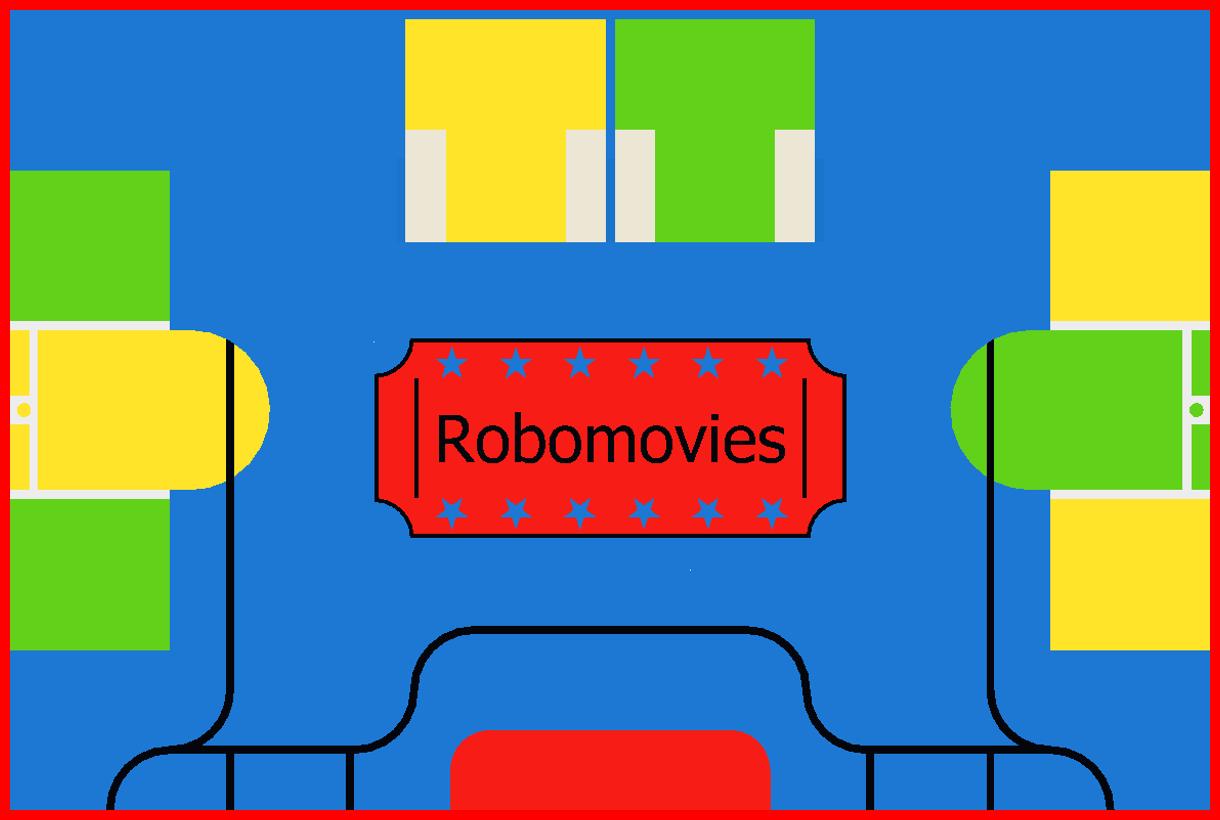
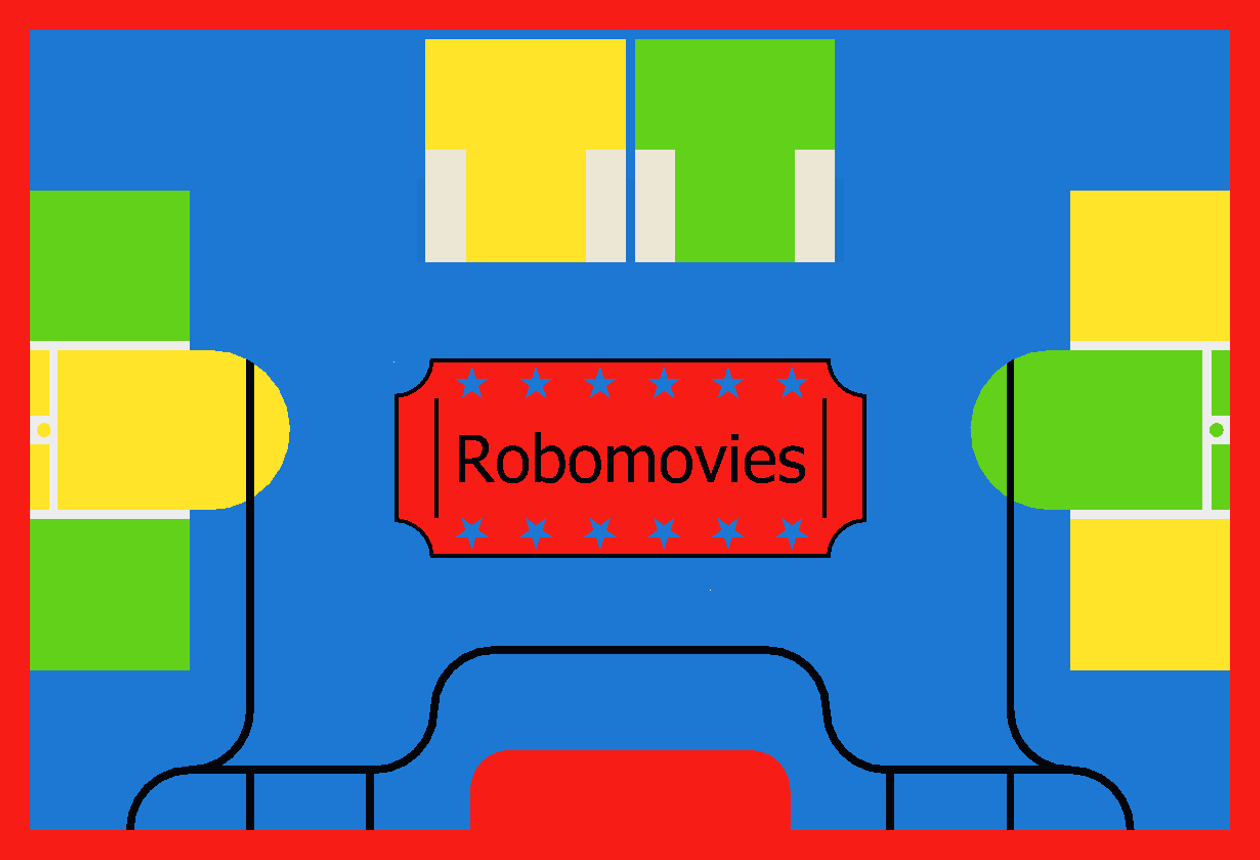
[linux_image_processing] Try to add some randomness (WIP)

diff --git a/primary_robot/linux_image_processing/processes/ProcAbsPos.cpp b/primary_robot/linux_image_processing/processes/ProcAbsPos.cpp
@@ -29,13 +29,13 @@ using namespace std;
 using namespace cv;
 
 //#define SHOW_TESTPOINTS
-//#define SHOW_SIMULATED
-//#define HSV_TO_HGRAY
+#define SHOW_SIMULATED
+#define HSV_TO_HGRAY
 //#define HSV_TO_VGRAY
 //#define SHOW_PLAYGROUND
-//#define SHOW_HSV
+#define SHOW_HSV
 
-//#define WRITE_IMAGES
+#define WRITE_IMAGES
 
 /**
  * H
@@ -88,21 +88,21 @@ vector<TestPoint> ProcAbsPos::getPosDependentTP(const Pos& robPos) {
 Point2i getInPGIm(Mat p) {
     float factor = 4; // (px/cm)
 
-    return {int(round(p.at<float>(0) * factor)) + 9, int(round((200 - p.at<float>(1)) * factor)) + 9};
+    return {int(round(p.at<float>(0) * factor)) + 29, int(round((200 - p.at<float>(1)) * factor)) + 29};
 }
 
 template<typename T>
 Point2i getInPGIm(Point_<T> p) {
     float factor = 4; // (px/cm)
 
-    return {int(round(p.x * factor)) + 9, int(round((200 - p.y) * factor)) + 9};
+    return {int(round(p.x * factor)) + 29, int(round((200 - p.y) * factor)) + 29};
 }
 
 template<typename T>
 Point2i getInPGIm(Point3_<T> p) {
     float factor = 4; // (px/cm)
 
-    return {int(round(p.x * factor)) + 9, int(round((200 - p.y) * factor)) + 9};
+    return {int(round(p.x * factor)) + 29, int(round((200 - p.y) * factor)) + 29};
 }
 
 Mat ProcAbsPos::getSimulatedAt(ProjAcq& pAcq, const Pos& robPos) const {
@@ -116,7 +116,13 @@ Mat ProcAbsPos::getSimulatedAt(ProjAcq& pAcq, const Transform2D<float>& tr_rob2p
     Mat im3 = pAcq.getAcq()->getMat(BGR).clone();
     for (Mat_<Vec3b>::iterator it = im3.begin<Vec3b>(); it != im3.end<Vec3b>();
             it++) {
-        (*it) = pg.at<Vec3b>(getInPGIm(tr_rob2pg.transformLinPos(pAcq.cam2plane(it.pos()))));
+        Point2i pos_pg = getInPGIm(tr_rob2pg.transformLinPos(pAcq.cam2plane(it.pos())));
+        if (pos_pg.y < 0 || pos_pg.y >= pg.size[0] || pos_pg.x < 0 || pos_pg.x >= pg.size[1]) {
+            (*it) = Vec3b(0, 0, 0);
+        }
+        else {
+            (*it) = pg.at<Vec3b>(pos_pg);
+        }
     }
 
     return im3;
@@ -287,8 +293,14 @@ float ProcAbsPos::getEnergy(ProjAcq& pAcq, const Pos& robPos) {
     return E;
 }
 
-float ProcAbsPos::f(ProcAbsPos& p, ProjAcq& pAcq, const Vector3D<float>& pt) {
-    return p.getEnergy(pAcq, Pos(pt.x(), pt.y(), pt.z()));
+float ProcAbsPos::f(ProcAbsPos& p, ProjAcq& pAcq, Vector3D<float> const& pt, int iter) {
+    float enr = p.getEnergy(pAcq, Pos(pt.x(), pt.y(), pt.z()));
+    float rnd = iter >= 0 ? enr * 1.f * p.getRand() / log(3.f + iter) : 0.f;
+    float ret = enr + rnd;
+
+    cout << "f(pt = " << pt << ", iter = " << iter << ") = " << enr << " + " << rnd / enr * 100.f << " %" << endl;
+
+    return ret;
 }
 
 void ProcAbsPos::process(const std::vector<Acq*>& acqList, const Pos& pos, const PosU& posU) {
@@ -304,7 +316,8 @@ void ProcAbsPos::process(const std::vector<Acq*>& acqList, const Pos& pos, const
     Mat im_hsv = acq->getMat(HSV);
 
 #ifdef HSV_TO_HGRAY
-    for(Mat_<Vec3b>::iterator it = im_hsv.begin<Vec3b>(); it != im_hsv.end<Vec3b>(); it++) {
+    for (Mat_<Vec3b>::iterator it = im_hsv.begin<Vec3b>();
+            it != im_hsv.end<Vec3b>(); it++) {
         (*it)[1] = (*it)[0];
         (*it)[2] = (*it)[0];
     }
@@ -332,85 +345,103 @@ void ProcAbsPos::process(const std::vector<Acq*>& acqList, const Pos& pos, const
 
     float du = 10;
     float dv = 10;
-    float cm2rad = 0.01;
+    float dr = 5;
+    float cm2rad = 1.f / 50.f;
 
-    float ct = cos(pos.theta());
-    float st = sin(pos.theta());
+    for (int i = 0; i < 3; i++) {
+        float t = pos.theta() + dr * cm2rad * getRand();
+        float ct = cos(t);
+        float st = sin(t);
 
-    array<Vector3D<float>, 4> simplex {
-            Vector3D<float>(
-                    pos.getLinPos().at<float>(0) - ct*du,
-                    pos.getLinPos().at<float>(1) - st*du,
-                    pos.theta() - du * cm2rad),
-            Vector3D<float>(
-                    pos.getLinPos().at<float>(0) - st*dv,
-                    pos.getLinPos().at<float>(1) + ct*dv,
-                    pos.theta()),
-            Vector3D<float>(
-                    pos.getLinPos().at<float>(0) + ct*du,
-                    pos.getLinPos().at<float>(1) + st*du,
-                    pos.theta() + du * cm2rad),
-            Vector3D<float>(
-                    pos.getLinPos().at<float>(0) + st*dv,
-                    pos.getLinPos().at<float>(1) - ct*dv,
-                    pos.theta()),
-    };
+        array<Vector3D<float>, 4> simplex {
+                Vector3D<float>(
+                        pos.getLinPos().at<float>(0) - ct * du +
+                                dr * getRand(),
+                        pos.getLinPos().at<float>(1) - st * du +
+                                dr * getRand(),
+                        pos.theta() - du * cm2rad +
+                                dr * cm2rad * getRand()),
+                Vector3D<float>(
+                        pos.getLinPos().at<float>(0) - st * dv +
+                                dr * getRand(),
+                        pos.getLinPos().at<float>(1) + ct * dv +
+                                dr * getRand(),
+                        pos.theta() +
+                                dr * cm2rad * getRand()),
+                Vector3D<float>(
+                        pos.getLinPos().at<float>(0) + ct * du +
+                                dr * getRand(),
+                        pos.getLinPos().at<float>(1) + st * du +
+                                dr * getRand(),
+                        pos.theta() + du * cm2rad +
+                                dr * cm2rad * getRand()),
+                Vector3D<float>(
+                        pos.getLinPos().at<float>(0) + st * dv +
+                                dr * getRand(),
+                        pos.getLinPos().at<float>(1) - ct * dv +
+                                dr * getRand(),
+                        pos.theta() - du * cm2rad +
+                                dr * cm2rad * getRand()),
+        };
 
-    cout << "input simplex:" << endl;
-    for(Vector3D<float> const& v : simplex) {
-        cout << v.x() << " " << v.y() << " " << v.z() << endl;
-    }
+        cout << "input simplex:" << endl;
+        for (Vector3D<float> const& v : simplex) {
+            cout << v.x() << " " << v.y() << " " << v.z() << endl;
+        }
 
-    function<float(Vector3D<float> const&)> bf = std::bind(f, ref(*this), ref(pAcq), placeholders::_1);
+        function<float(Vector3D<float> const&, int)> bf = std::bind(f, ref(*this), ref(pAcq), placeholders::_1, placeholders::_2);
 
-    perf.endOfStep("ProcAbsPos::setting up optim");
+        perf.endOfStep("ProcAbsPos::setting up optim");
 
-    Vector3D<float> res = neldermead<float, Vector3D<float>, 3>(simplex, bf, 0, 30);
-    Pos endPos(res.x(), res.y(), res.z());
+        Vector3D<float> res = neldermead<float, Vector3D<float>, 3>(simplex, bf, 0, 20);
+        Pos endPos(res.x(), res.y(), res.z());
 
-    cout << "output simplex:" << endl;
-    for(Vector3D<float> const& v : simplex) {
-        cout << v.x() << " " << v.y() << " " << v.z() << endl;
-    }
+        cout << "output simplex:" << endl;
+        for (Vector3D<float> const& v : simplex) {
+            cout << v.x() << " " << v.y() << " " << v.z() << endl;
+        }
 
-    cout << "  endpos: " << endPos.x() << ", " << endPos.y() << ", " << endPos.theta() * 180. / M_PI << ", E=" << getEnergy(pAcq, endPos) << endl;
+        cout << "  endpos: " << endPos.x() << ", " << endPos.y() << ", " << endPos.theta() * 180. / M_PI << ", E=" << getEnergy(pAcq, endPos) << endl;
 
-    perf.endOfStep("optim (neldermead)");
+        perf.endOfStep("optim (neldermead #" + to_string(i) + ")");
 
 #ifdef SHOW_SIMULATED
-    // simulate acquisition
-    Mat im3 = getSimulatedAt(pAcq, endPos);
+        // simulate acquisition
+        Mat im3 = getSimulatedAt(pAcq, endPos);
+        string bn("im3-" + to_string(i));
 #ifdef WRITE_IMAGES
-    imwrite("im3.png", im3);
+        imwrite(bn + ".png", im3);
 #endif
-    imshow("im3", im3);
+        imshow(bn, im3);
 
 #ifdef SHOW_HSV
-    // show simulated acquisition in hsv
-    Mat im3_hsv = im3.clone();
-    cvtColor(im3, im3_hsv, COLOR_BGR2HSV);
+        // show simulated acquisition in hsv
+        Mat im3_hsv = im3.clone();
+        cvtColor(im3, im3_hsv, COLOR_BGR2HSV);
 #ifdef HSV_TO_HGRAY
-    for(Mat_<Vec3b>::iterator it = im3_hsv.begin<Vec3b>(); it != im3_hsv.end<Vec3b>(); it++) {
-        (*it)[1] = (*it)[0];
-        (*it)[2] = (*it)[0];
-    }
+        for (Mat_<Vec3b>::iterator it = im3_hsv.begin<Vec3b>();
+                it != im3_hsv.end<Vec3b>(); it++) {
+            (*it)[1] = (*it)[0];
+            (*it)[2] = (*it)[0];
+        }
 #elif defined(HSV_TO_VGRAY)
-    for(Mat_<Vec3b>::iterator it = im3_hsv.begin<Vec3b>(); it != im3_hsv.end<Vec3b>(); it++) {
-        (*it)[0] = (*it)[2];
-        (*it)[1] = (*it)[2];
-    }
+        for(Mat_<Vec3b>::iterator it = im3_hsv.begin<Vec3b>(); it != im3_hsv.end<Vec3b>(); it++) {
+            (*it)[0] = (*it)[2];
+            (*it)[1] = (*it)[2];
+        }
 #endif
 #ifdef WRITE_IMAGES
-    imwrite("im3_hsv.png", im3_hsv);
+        imwrite(bn + "_hsv.png", im3_hsv);
 #endif
-    imshow("im3_hsv", im3_hsv);
+        imshow(bn + "_hsv", im3_hsv);
 
-    Mat diff_hsv = im_hsv - im3_hsv;
+        Mat diff_hsv = im_hsv - im3_hsv;
 #ifdef WRITE_IMAGES
-    imwrite("diff_hsv.png", diff_hsv);
+        imwrite(bn + "_diff_hsv.png", diff_hsv);
 #endif
-    imshow("diff_hsv", diff_hsv);
+        imshow(bn + "_diff_hsv", diff_hsv);
 #endif
 #endif
+    }
 
 }

diff --git a/primary_robot/linux_image_processing/tools/neldermead.h b/primary_robot/linux_image_processing/tools/neldermead.h
@@ -14,7 +14,7 @@
 //#define NM_DEBUG
 
 template<typename T, typename V, int sz>
-V neldermead(std::array<V, sz + 1>& x, std::function<T(V const&)> f, T z_end, int nb_max) {
+V neldermead(std::array<V, sz + 1>& x, std::function<T(V const&, int)> f, T z_end, int nb_max) {
     V xb, xr, xe, xc;
     int i_max, i_MAX, i_MIN;
     int indexes[sz + 1];
@@ -22,7 +22,7 @@ V neldermead(std::array<V, sz + 1>& x, std::function<T(V const&)> f, T z_end, in
             sigma = 0.5;
 
     for (int i = 0; i < sz + 1; i++) {
-        z[i] = f(x[i]);
+        z[i] = f(x[i], 0);
         indexes[i] = i;
 
 #ifdef NM_DEBUG
@@ -37,9 +37,9 @@ V neldermead(std::array<V, sz + 1>& x, std::function<T(V const&)> f, T z_end, in
         }
     }
 
-    for (int i = 0; i < nb_max; i++) {
+    for (int iter = 1; iter <= nb_max; iter++) {
 #ifdef NM_DEBUG
-        std::cout << "## loop " << i << std::endl;
+        std::cout << "## loop " << iter << std::endl;
 #endif
 
 // tri (insertion sort)
@@ -72,7 +72,7 @@ V neldermead(std::array<V, sz + 1>& x, std::function<T(V const&)> f, T z_end, in
 
 // calcul point réflechi
         xr = xb + alpha * (xb - x[i_MAX]);
-        z_xr = f(xr);
+        z_xr = f(xr, iter);
 #ifdef NM_DEBUG
         std::cout << "   f(xr = " << xr << ") = " << z_xr << std::endl;
 #endif
@@ -96,7 +96,7 @@ V neldermead(std::array<V, sz + 1>& x, std::function<T(V const&)> f, T z_end, in
 // expansion
         if (z_xr < z[i_MIN]) {
             xe = xb + gamma * (xb - x[i_MAX]);
-            z_xe = f(xe);
+            z_xe = f(xe, iter);
 #ifdef NM_DEBUG
             std::cout << "   f(xe = " << xe << ") = " << z_xe << std::endl;
 #endif
@@ -126,7 +126,7 @@ V neldermead(std::array<V, sz + 1>& x, std::function<T(V const&)> f, T z_end, in
 
 // contraction
         xc = xb + rho * (xb - x[i_MAX]);
-        z_xc = f(xc);
+        z_xc = f(xc, iter);
 #ifdef NM_DEBUG
         std::cout << "   f(xc = " << xc << ") = " << z_xc << std::endl;
 #endif
@@ -152,7 +152,7 @@ V neldermead(std::array<V, sz + 1>& x, std::function<T(V const&)> f, T z_end, in
                 continue;
 
             x[j] = x[i_MIN] + sigma * (x[j] - x[i_MIN]);
-            z[j] = f(x[j]);
+            z[j] = f(x[j], iter);
 #ifdef NM_DEBUG
             std::cout << "=> f(x[" << j << "] = " << x[j] << ") = " << z[j] << std::endl;
 #endif
@@ -171,10 +171,13 @@ V neldermead(std::array<V, sz + 1>& x, std::function<T(V const&)> f, T z_end, in
 #endif
 
     i_MIN = 0;
+    z[0] = f(x[0], -1);
 #ifdef NM_DEBUG
     std::cout << " z[" << i_MIN << "] = " << z[i_MIN] << std::endl;
 #endif
     for (int i = 1; i < sz + 1; i++) {
+        z[i] = f(x[i], -1);
+
 #ifdef NM_DEBUG
         std::cout << " z[" << i << "] = " << z[i] << std::endl;
 #endif

diff --git a/primary_robot/linux_image_processing/simu/TestPointGen.m b/primary_robot/linux_image_processing/simu/TestPointGen.m
@@ -48,9 +48,9 @@ imwrite(DD, 'dist.png', 'bitdepth', 16);
 %% get propability from distance
 
 low_dens = 1/15; % (/cm²)
-low_thr = 12; % (cm)
+low_thr = 15; % (cm)
 
-high_dens = 1/1; % (/cm²)
+high_dens = 1.2/1; % (/cm²)
 high_thr = 0;
 
 P = high_dens + (high_dens - low_dens) .* (D - high_thr) ./ (high_thr - low_thr);
@@ -139,7 +139,7 @@ s = S(Q);
 v = V(Q);
 p = P(Q);
 
-M = [(col - 10 + 1)./factor, (size(i,1) - row + 1  - 10 + 1)./factor, h, s, v, p];
+M = [(col - 30 + 1)./factor, (size(i,1) - row + 1  - 30 + 1)./factor, h, s, v, p];
 
 dlmwrite('testpoints.csv', M);
 

diff --git a/primary_robot/linux_image_processing/processes/ProcAbsPos.h b/primary_robot/linux_image_processing/processes/ProcAbsPos.h
@@ -27,7 +27,7 @@ protected:
 
     cv::Mat pg;
 
-    static float f(ProcAbsPos& p, ProjAcq& pAcq, const Vector3D<float>& pt);
+    static float f(ProcAbsPos& p, ProjAcq& pAcq, Vector3D<float> const& pt, int iter);
 
     // prepare random generator
     std::random_device generator;
